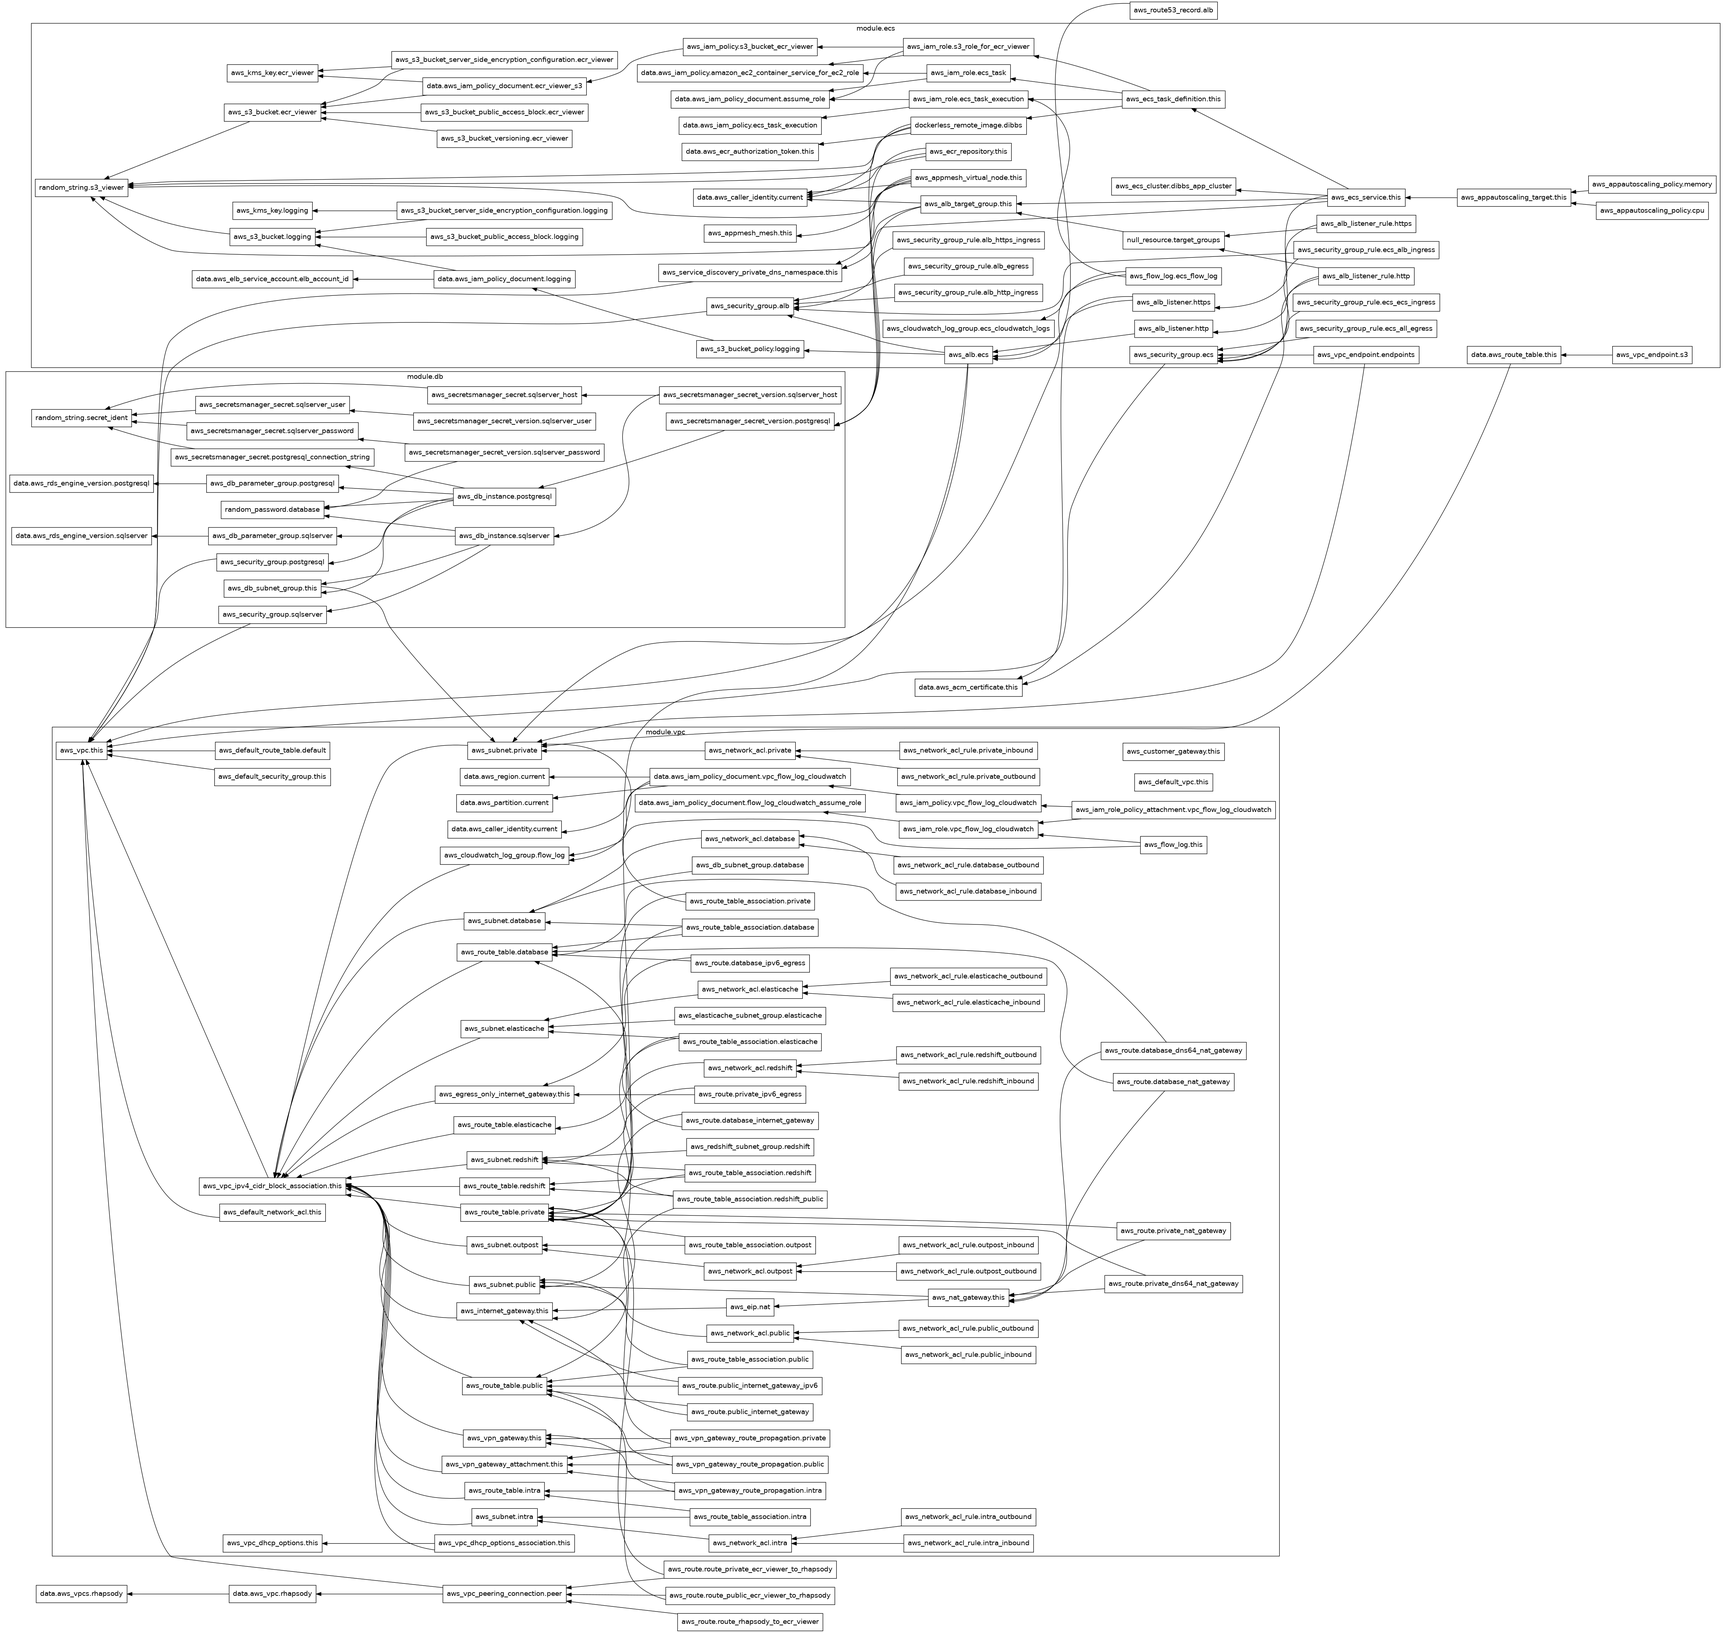
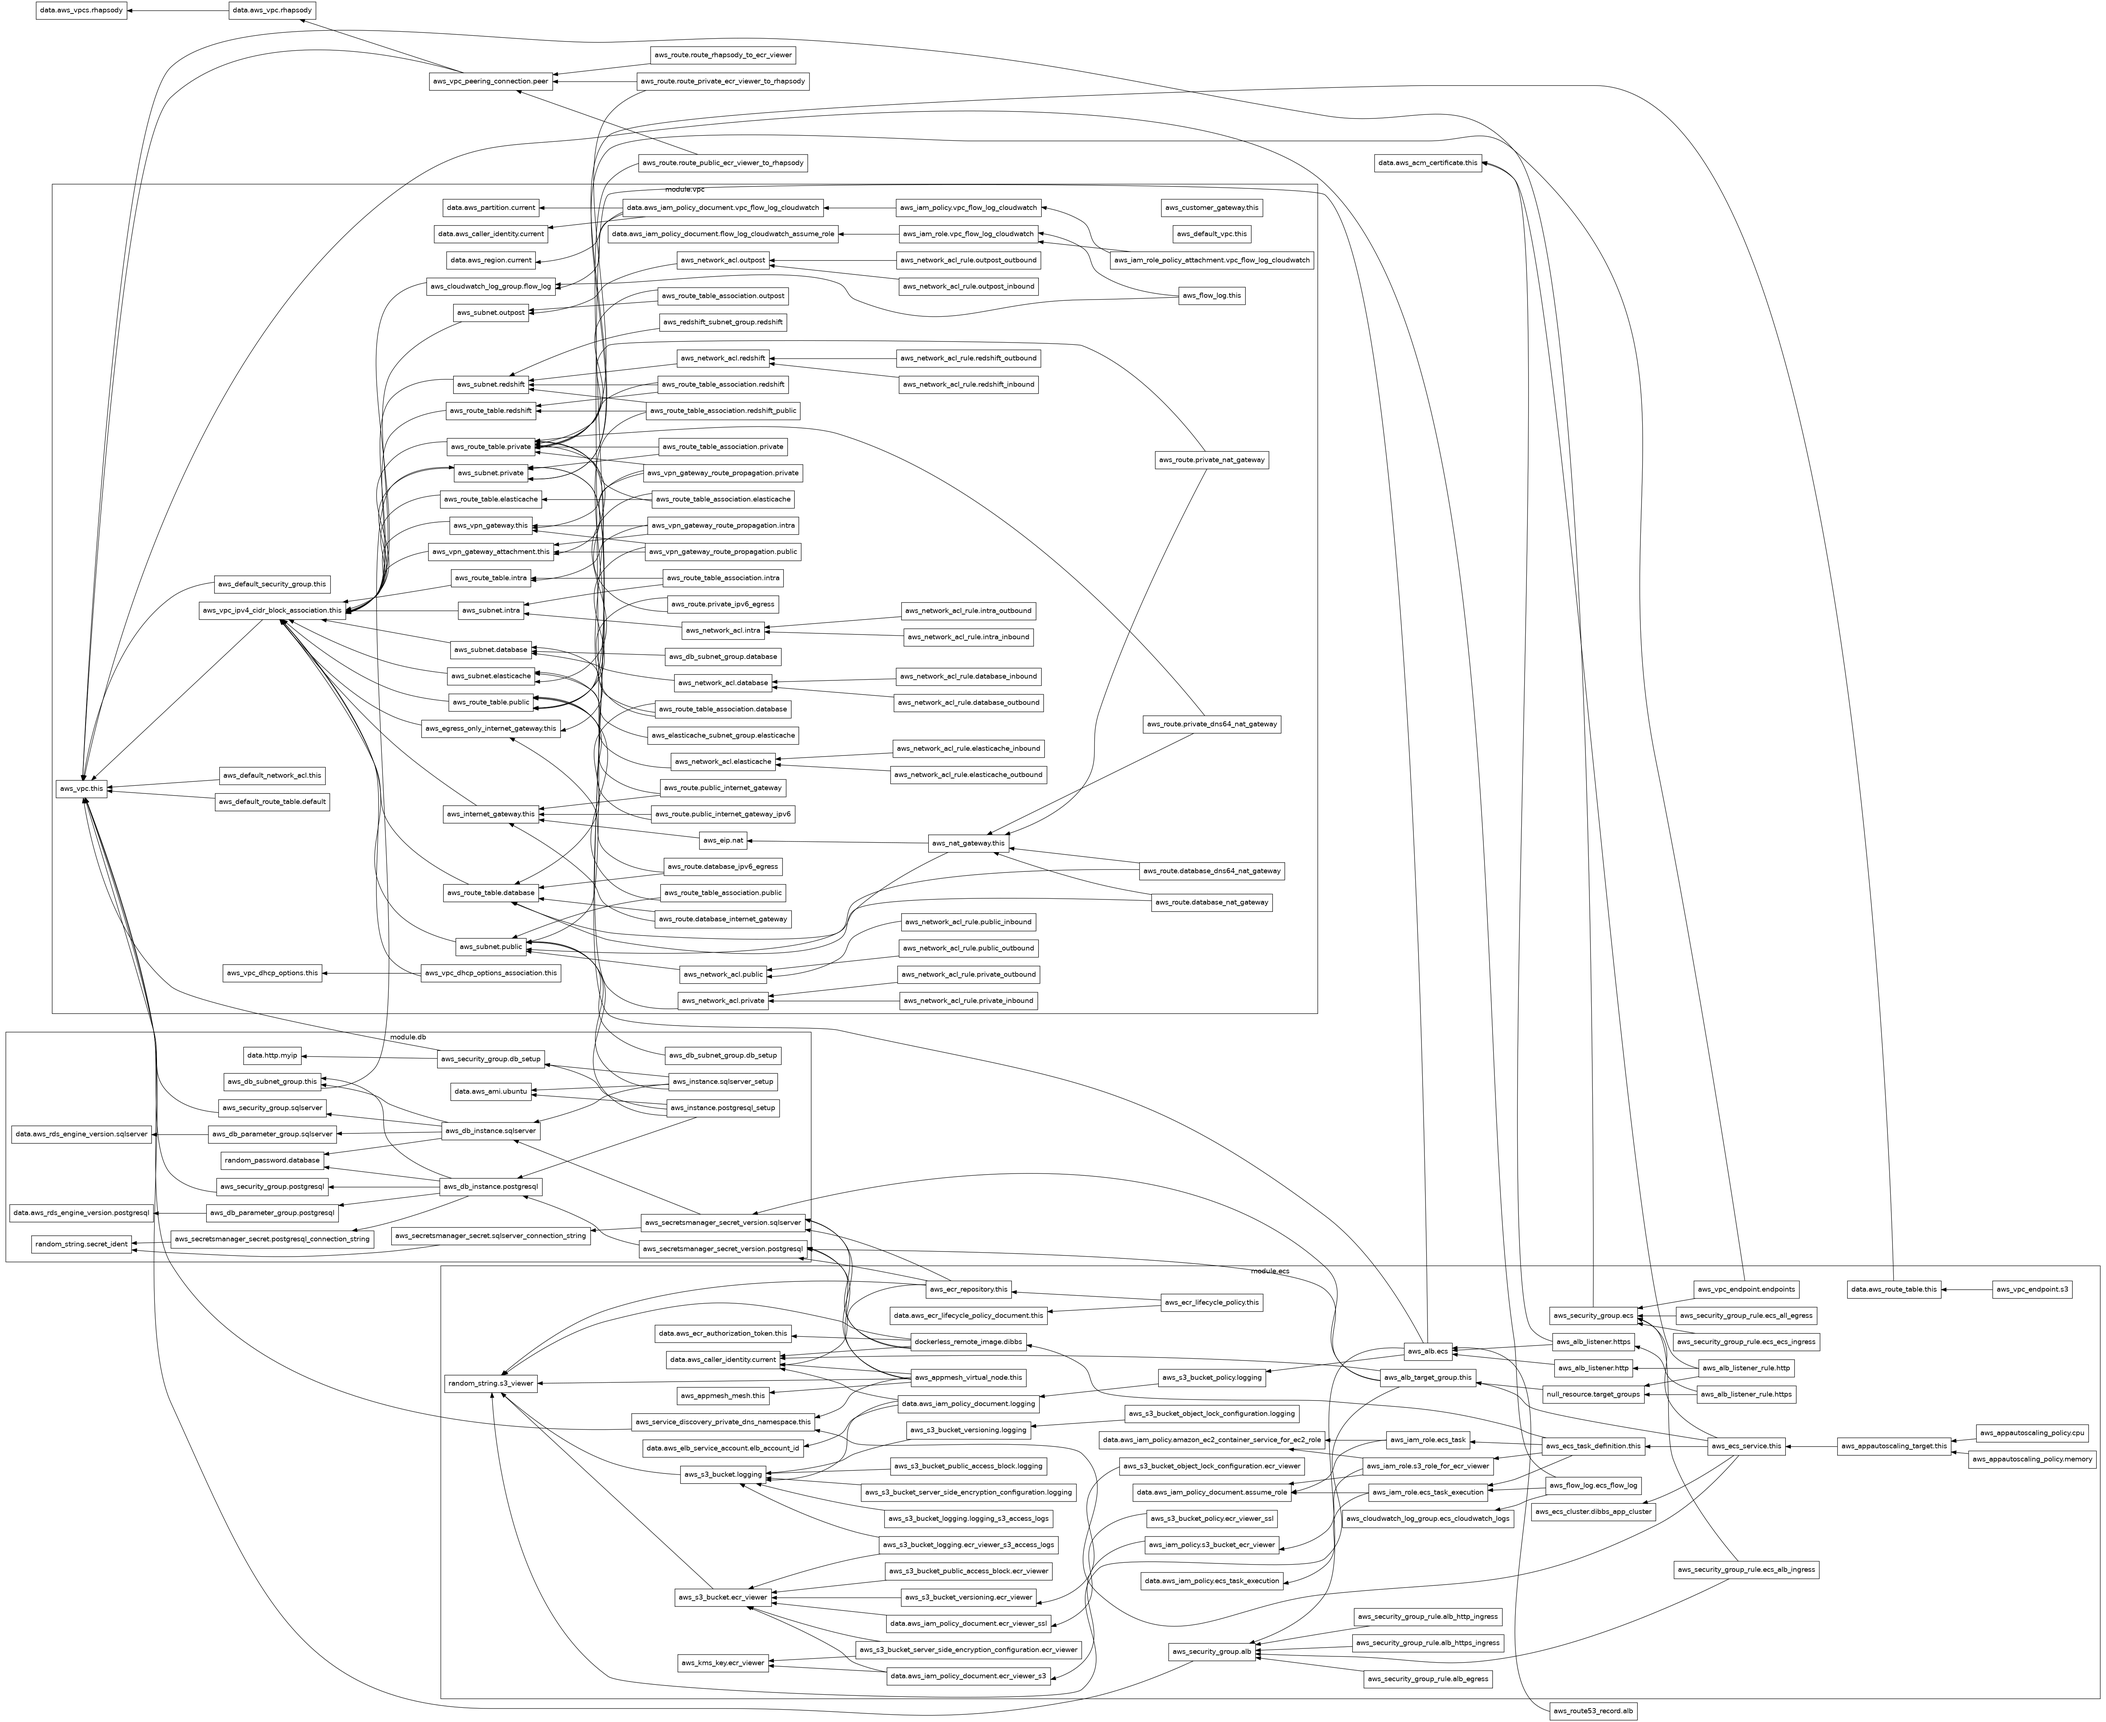
fix: update ECS module source to alis/report_items branch (#85)
* fix: update ECS module source to alis/report_items branch

* fix: correct tag key for workspace in backend.tf

* fix(terraform): add missing untag actions to policy documents

* fix(terraform): add ec2:CreateTags action for vpc peering

* chore(terraform): remove duplicate and redundant tags

* feat(terraform/modules/oidc/_data.tf): add KMS key ARN to resource tags update actions

* fix(terraform): add application-autoscaling actions and resources to tags update policy

* fix: update READMEs

* fix: update ecs module source and version

diff --git a/terraform/modules/db/README.md b/terraform/modules/db/README.md
@@ -13,6 +13,7 @@
 | Name | Version |
 |------|---------|
 | <a name="provider_aws"></a> [aws](#provider\_aws) | ~> 5.86.0 |
+| <a name="provider_http"></a> [http](#provider\_http) | 3.4.5 |
 | <a name="provider_random"></a> [random](#provider\_random) | ~> 3.6.3 |
 
 ## Modules
@@ -27,21 +28,23 @@ No modules.
 | [aws_db_instance.sqlserver](https://registry.terraform.io/providers/hashicorp/aws/latest/docs/resources/db_instance) | resource |
 | [aws_db_parameter_group.postgresql](https://registry.terraform.io/providers/hashicorp/aws/latest/docs/resources/db_parameter_group) | resource |
 | [aws_db_parameter_group.sqlserver](https://registry.terraform.io/providers/hashicorp/aws/latest/docs/resources/db_parameter_group) | resource |
+| [aws_db_subnet_group.db_setup](https://registry.terraform.io/providers/hashicorp/aws/latest/docs/resources/db_subnet_group) | resource |
 | [aws_db_subnet_group.this](https://registry.terraform.io/providers/hashicorp/aws/latest/docs/resources/db_subnet_group) | resource |
+| [aws_instance.postgresql_setup](https://registry.terraform.io/providers/hashicorp/aws/latest/docs/resources/instance) | resource |
+| [aws_instance.sqlserver_setup](https://registry.terraform.io/providers/hashicorp/aws/latest/docs/resources/instance) | resource |
 | [aws_secretsmanager_secret.postgresql_connection_string](https://registry.terraform.io/providers/hashicorp/aws/latest/docs/resources/secretsmanager_secret) | resource |
-| [aws_secretsmanager_secret.sqlserver_host](https://registry.terraform.io/providers/hashicorp/aws/latest/docs/resources/secretsmanager_secret) | resource |
-| [aws_secretsmanager_secret.sqlserver_password](https://registry.terraform.io/providers/hashicorp/aws/latest/docs/resources/secretsmanager_secret) | resource |
-| [aws_secretsmanager_secret.sqlserver_user](https://registry.terraform.io/providers/hashicorp/aws/latest/docs/resources/secretsmanager_secret) | resource |
+| [aws_secretsmanager_secret.sqlserver_connection_string](https://registry.terraform.io/providers/hashicorp/aws/latest/docs/resources/secretsmanager_secret) | resource |
 | [aws_secretsmanager_secret_version.postgresql](https://registry.terraform.io/providers/hashicorp/aws/latest/docs/resources/secretsmanager_secret_version) | resource |
-| [aws_secretsmanager_secret_version.sqlserver_host](https://registry.terraform.io/providers/hashicorp/aws/latest/docs/resources/secretsmanager_secret_version) | resource |
-| [aws_secretsmanager_secret_version.sqlserver_password](https://registry.terraform.io/providers/hashicorp/aws/latest/docs/resources/secretsmanager_secret_version) | resource |
-| [aws_secretsmanager_secret_version.sqlserver_user](https://registry.terraform.io/providers/hashicorp/aws/latest/docs/resources/secretsmanager_secret_version) | resource |
+| [aws_secretsmanager_secret_version.sqlserver](https://registry.terraform.io/providers/hashicorp/aws/latest/docs/resources/secretsmanager_secret_version) | resource |
+| [aws_security_group.db_setup](https://registry.terraform.io/providers/hashicorp/aws/latest/docs/resources/security_group) | resource |
 | [aws_security_group.postgresql](https://registry.terraform.io/providers/hashicorp/aws/latest/docs/resources/security_group) | resource |
 | [aws_security_group.sqlserver](https://registry.terraform.io/providers/hashicorp/aws/latest/docs/resources/security_group) | resource |
 | [random_password.database](https://registry.terraform.io/providers/hashicorp/random/latest/docs/resources/password) | resource |
 | [random_string.secret_ident](https://registry.terraform.io/providers/hashicorp/random/latest/docs/resources/string) | resource |
+| [aws_ami.ubuntu](https://registry.terraform.io/providers/hashicorp/aws/latest/docs/data-sources/ami) | data source |
 | [aws_rds_engine_version.postgresql](https://registry.terraform.io/providers/hashicorp/aws/latest/docs/data-sources/rds_engine_version) | data source |
 | [aws_rds_engine_version.sqlserver](https://registry.terraform.io/providers/hashicorp/aws/latest/docs/data-sources/rds_engine_version) | data source |
+| [http_http.myip](https://registry.terraform.io/providers/hashicorp/http/3.4.5/docs/data-sources/http) | data source |
 
 ## Inputs
 
@@ -52,6 +55,8 @@ No modules.
 | <a name="input_owner"></a> [owner](#input\_owner) | The owner of the infrastructure | `string` | `"skylight"` | no |
 | <a name="input_private_subnet_ids"></a> [private\_subnet\_ids](#input\_private\_subnet\_ids) | List of private subnet IDs | `list(string)` | n/a | yes |
 | <a name="input_project"></a> [project](#input\_project) | The project name | `string` | `"dibbs"` | no |
+| <a name="input_public_subnet_ids"></a> [public\_subnet\_ids](#input\_public\_subnet\_ids) | List of public subnet IDs | `list(string)` | n/a | yes |
+| <a name="input_ssh_key_name"></a> [ssh\_key\_name](#input\_ssh\_key\_name) | The name of the SSH key to use for the instances | `string` | `""` | no |
 | <a name="input_tags"></a> [tags](#input\_tags) | Tags to apply to resources | `map(string)` | `{}` | no |
 | <a name="input_vpc_id"></a> [vpc\_id](#input\_vpc\_id) | ID of the VPC | `string` | n/a | yes |
 
@@ -59,8 +64,5 @@ No modules.
 
 | Name | Description |
 |------|-------------|
-| <a name="output_secrets_manager_postgresql_connection_string_version"></a> [secrets\_manager\_postgresql\_connection\_string\_version](#output\_secrets\_manager\_postgresql\_connection\_string\_version) | n/a |
-| <a name="output_secrets_manager_sqlserver_host_version"></a> [secrets\_manager\_sqlserver\_host\_version](#output\_secrets\_manager\_sqlserver\_host\_version) | n/a |
-| <a name="output_secrets_manager_sqlserver_password_version"></a> [secrets\_manager\_sqlserver\_password\_version](#output\_secrets\_manager\_sqlserver\_password\_version) | n/a |
-| <a name="output_secrets_manager_sqlserver_user_version"></a> [secrets\_manager\_sqlserver\_user\_version](#output\_secrets\_manager\_sqlserver\_user\_version) | n/a |
+| <a name="output_secrets_manager_database_connection_string_version"></a> [secrets\_manager\_database\_connection\_string\_version](#output\_secrets\_manager\_database\_connection\_string\_version) | n/a |
 <!-- END_TF_DOCS -->

diff --git a/terraform/implementation/ecs/README.md b/terraform/implementation/ecs/README.md
@@ -17,7 +17,7 @@
 | Name | Source | Version |
 |------|--------|---------|
 | <a name="module_db"></a> [db](#module\_db) | ../../modules/db | n/a |
-| <a name="module_ecs"></a> [ecs](#module\_ecs) | CDCgov/dibbs-ecr-viewer/aws | 0.8.5 |
+| <a name="module_ecs"></a> [ecs](#module\_ecs) | CDCgov/dibbs-ecr-viewer/aws | 0.12.0 |
 | <a name="module_vpc"></a> [vpc](#module\_vpc) | terraform-aws-modules/vpc/aws | 5.16.0 |
 
 ## Resources
@@ -40,9 +40,10 @@
 | <a name="input_auth_client_id"></a> [auth\_client\_id](#input\_auth\_client\_id) | The application/client id used to idenitfy the client | `string` | `""` | no |
 | <a name="input_auth_issuer"></a> [auth\_issuer](#input\_auth\_issuer) | Additional information used during authentication process. For Azure AD, this will be the 'Tenant Id'. For Keycloak, this will be the url issuer including the realm - e.g. https://my-keycloak-domain.com/realms/My_Realm | `string` | `""` | no |
 | <a name="input_auth_provider"></a> [auth\_provider](#input\_auth\_provider) | The authentication provider used. Either keycloak or ad. | `string` | `""` | no |
+| <a name="input_auth_session_duration_min"></a> [auth\_session\_duration\_min](#input\_auth\_session\_duration\_min) | Duration in minutes before auto signout, defaults to 30 if not set | `string` | `""` | no |
 | <a name="input_auth_url"></a> [auth\_url](#input\_auth\_url) | Optional. The full URL of the auth api. By default https://your-site.com/ecr-viewer/api/auth. | `string` | `""` | no |
 | <a name="input_availability_zones"></a> [availability\_zones](#input\_availability\_zones) | The availability zones to use | `list(string)` | <pre>[<br>  "us-east-1a",<br>  "us-east-1b",<br>  "us-east-1c"<br>]</pre> | no |
-| <a name="input_database_type"></a> [database\_type](#input\_database\_type) | The type of database to use (postgresql or sqlserver) | `string` | `"postgresql"` | no |
+| <a name="input_database_type"></a> [database\_type](#input\_database\_type) | The type of database to use (postgresql or sqlserver or '') | `string` | `""` | no |
 | <a name="input_dibbs_config_name"></a> [dibbs\_config\_name](#input\_dibbs\_config\_name) | The name of the DIBBS configuration | `string` | `"AWS_PG_NON_INTEGRATED"` | no |
 | <a name="input_internal"></a> [internal](#input\_internal) | Flag to determine if the several AWS resources are public (intended for external access, public internet) or private (only intended to be accessed within your AWS VPC or avaiable with other means, a transit gateway for example). | `bool` | `false` | no |
 | <a name="input_nbs_pub_key"></a> [nbs\_pub\_key](#input\_nbs\_pub\_key) | The public key used to validate the incoming authenication for the eCR Viewer. | `string` | `"-----BEGIN PUBLIC KEY-----\nMIICIjANBgkqhkiG9w0BAQEFAAOCAg8AMIICCgKCAgEAnlA1YmmbydxQdBh7DAq0\nwUfsjR25eWZOB995mHclT3C46oLat3YLu70akLfoMXd9YcJe0d4q3sP7tS1J4QDO\nIkfapvK3ClDJR2VUERTzR9yQ+1B1Sd+MSful/V3aP9L6wPRAJmsmziizUBz+X0oN\nWTkGP/xi0F/IlyBfh2sk89JKKmgXSFbgDTD7+8L5WeRY5koR0KfDJLBcyerrcIPW\n1FyD8RbkUH78yJXc+/ThXKBNpsDTvV0k/4zqLSADIEmhQFkW8oYOfF4ufBGSnGdZ\ngPoWbKHtlK+m1sFWMq0hAtJsNKsJQocPAEO2NIxRCX4k6X9HfvCYVniDI4OdVz0V\njTF+galQDAybgtYc9ZN8ROpePDVkCANHzniBJFOwzv2yekreqdX7M399uLB+ztDX\nIz2RpZbGkgspl4TWvvB+eN64DJykmExImIw1nFc/6AVd3jhKSnCrckpGV3XaF8lW\nWMA6au0RXjmRa4YxO/uQbFZeFkM7aQtQK/CxqdBfG0SACcIMwU2S7Kb5+c9Hs687\nLI8j7j0oVyCiAyJ44Mi70i4A2GedyM6kzdixTmszin+c4tT8mYjmEMpJle6GLBIa\naqEy3CVEqecFIo4ypfoo4GjTqvv/JjtxwBl1FPC+HzFkOjSoLbrDmn64NnQhXlC9\nkd+ONf43CmqDSTa3atSFq4sCAwEAAQ==\n-----END PUBLIC KEY-----\n"` | no |
@@ -56,6 +57,7 @@
 | <a name="input_secrets_manager_auth_client_secret_version"></a> [secrets\_manager\_auth\_client\_secret\_version](#input\_secrets\_manager\_auth\_client\_secret\_version) | The secret containing the auth client secret. This is the secret that comes from the authentication provider. | `string` | `""` | no |
 | <a name="input_secrets_manager_auth_secret_version"></a> [secrets\_manager\_auth\_secret\_version](#input\_secrets\_manager\_auth\_secret\_version) | The secret containing the auth secret. This is used by eCR viewer to encrypt authentication. This can be generated by running `openssl rand -base64 32`. | `string` | `""` | no |
 | <a name="input_secrets_manager_metadata_database_migration_secret_version"></a> [secrets\_manager\_metadata\_database\_migration\_secret\_version](#input\_secrets\_manager\_metadata\_database\_migration\_secret\_version) | The secret containing the db migration secret. This is used by eCR viewer to allow database migrations. | `string` | `""` | no |
+| <a name="input_ssh_key_name"></a> [ssh\_key\_name](#input\_ssh\_key\_name) | The name of the SSH key to use for the instances | `string` | `""` | no |
 | <a name="input_vpc_cidr"></a> [vpc\_cidr](#input\_vpc\_cidr) | The CIDR block for the VPC | `string` | `"176.24.0.0/16"` | no |
 
 ## Outputs
